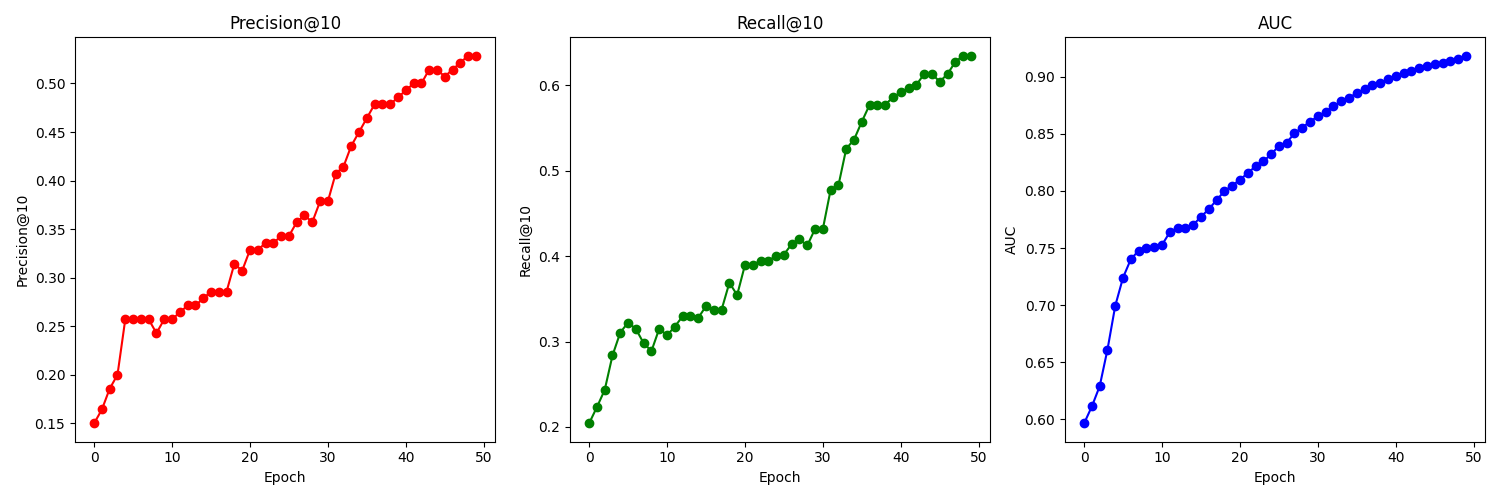
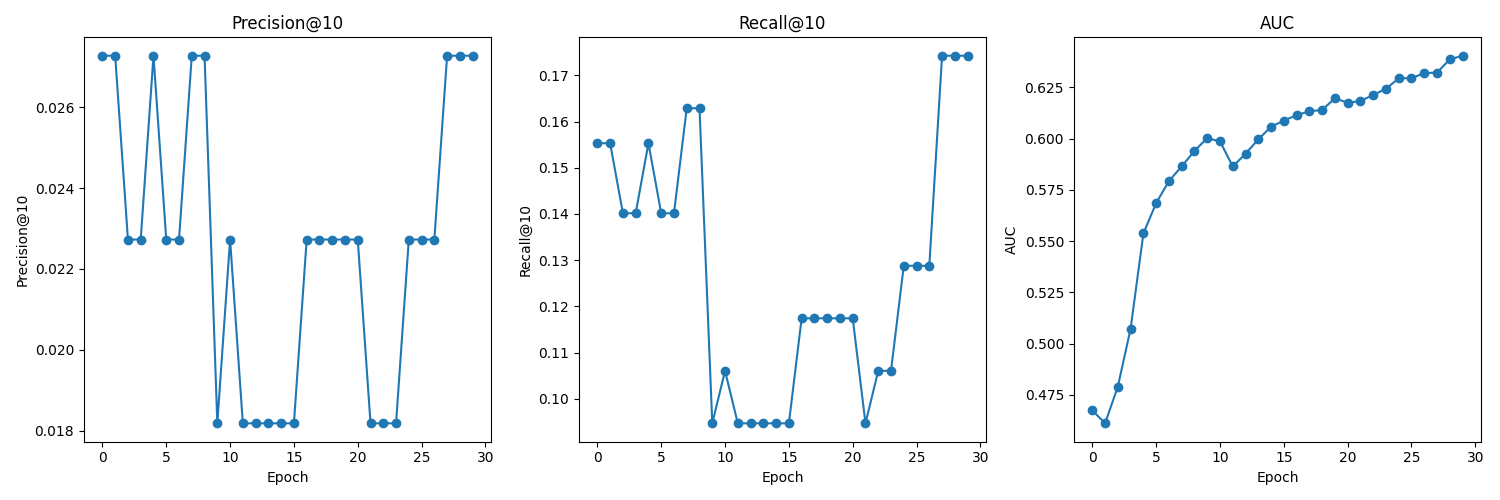
Enable matplotlib in requirements and update LightFM training parameters for improved model performance

diff --git a/recommendation/personalized/lightfm_process.py b/recommendation/personalized/lightfm_process.py
@@ -7,10 +7,11 @@ import pickle
 import logging
 import numpy as np
 import pandas as pd
-# import matplotlib.pyplot as plt
+import matplotlib.pyplot as plt
 from io import BytesIO
 from lightfm import LightFM
 from lightfm.data import Dataset
+from lightfm.cross_validation import random_train_test_split
 from lightfm.evaluation import precision_at_k, recall_at_k, auc_score
 from common.database import load_data
 
@@ -19,9 +20,9 @@ logger = logging.getLogger(__name__)
 logging.basicConfig(level=logging.INFO, format='%(asctime)s %(levelname)s %(message)s')
 
 # 하이퍼파라미터 및 설정
-EPOCHS = 50
+EPOCHS = 30
 NUM_THREADS = 1
-SAVE_CONDITION = {'precision': 0.5, 'recall': 0.6, 'auc': 0.9}
+SAVE_CONDITION = {'auc': 0.6}
 S3_BUCKET = 'lightfm-model'
 S3_PREFIX = 'lightfm_model'
 METRICS_PATH = 'personalized/output/lightfm_metrics_final.png'
@@ -43,7 +44,7 @@ def load_logs():
         SELECT user_id
         FROM "Mypage_userlog"
         GROUP BY user_id
-        HAVING COUNT(DISTINCT product_id) >= 5
+        HAVING COUNT(product_id) >= 3
         )
     """
     df = load_data(query)
@@ -75,16 +76,18 @@ def load_products():
 def prepare_dataset(df_logs, df_products):
     """
     유저 로그와 상품 정보를 바탕으로 LightFM 학습에 필요한 interaction matrix와 item feature matrix를 생성한다.
+    - 유저가 같은 상품에 여러 번 상호작용한 경우 행동별 가중치를 합산하여 반영한다.
 
     Args:
         df_logs (pd.DataFrame): user_id, product_id, action 컬럼을 가진 유저 로그 데이터
         df_products (pd.DataFrame): product_id, title, ingredients, brand, supplement_type, product_form, vegan 컬럼을 가진 상품 정보 데이터
 
     Returns:
-        tuple: (dataset, interaction_matrix, item_features)
+        tuple: (dataset, interaction_matrix, item_features, interactions)
             - dataset: LightFM Dataset 객체 (user/item 인덱스 매핑 정보 포함)
             - interaction_matrix: 상호작용 행렬 (user x item)
             - item_features: 아이템 feature 행렬
+            - interactions: (user_id, product_id, weight) 튜플 리스트
     """
     # 유저 행동별 가중치 설정
     action_weight = {
@@ -92,13 +95,11 @@ def prepare_dataset(df_logs, df_products):
         'purchase': 5.0,
     }
 
-    # 아이템 feature로 사용할 컬럼 지정
-    item_feature_fields = ['brand', 'supplement_type', 'product_form', 'vegan']
-
-    # 로그에 등장한 상품만 필터링
+    # (1) 상품 필터링 (로그에 등장한 상품만)
     used_product_ids = df_logs['product_id'].unique()
     df_products_used = df_products[df_products['product_id'].isin(used_product_ids)].copy()
 
+    # (2) 아이템 feature 추출용 ingredients 정제
     df_products_used['ingredients'] = df_products_used['ingredients'].apply(
         lambda x: ast.literal_eval(x) if isinstance(x, str) else x
     )
@@ -109,8 +110,8 @@ def prepare_dataset(df_logs, df_products):
         for ing in ingredients
         if 'ingredient_name' in ing
     }
-    
-    # 모든 아이템 feature 값 추출
+
+    item_feature_fields = ['brand', 'supplement_type', 'product_form', 'vegan']
     all_item_features = np.unique(
         np.concatenate([
             df_products_used[item_feature_fields].values.ravel(),
@@ -118,7 +119,7 @@ def prepare_dataset(df_logs, df_products):
         ])
     )
 
-    # LightFM Dataset 객체 생성 및 유저/아이템/아이템 feature fitting
+    # (3) Dataset fitting
     dataset = Dataset()
     dataset.fit(
         users=df_logs['user_id'].unique(),
@@ -126,27 +127,25 @@ def prepare_dataset(df_logs, df_products):
         item_features=all_item_features
     )
 
-    # (user, item, weight) 튜플 생성
-    interactions = [
-        (row.user_id, row.product_id, action_weight.get(row.action, 1.0))
-        for _, row in df_logs.iterrows()
-    ]
-    # 상호작용 행렬 생성
+    # (4) 행동 가중치 적용 및 집계
+    df_logs['weight'] = df_logs['action'].map(action_weight).fillna(0)
+    df_agg = df_logs.groupby(['user_id', 'product_id'])['weight'].sum().reset_index()
+
+    interactions = list(df_agg.itertuples(index=False, name=None))  # (user_id, product_id, weight)
     interaction_matrix, _ = dataset.build_interactions(interactions)
 
-    # 아이템 feature 튜플 생성
+    # (5) 아이템 feature 구성
     item_features_data = []
     for _, row in df_products_used.iterrows():
         features = [row[col] for col in item_feature_fields if pd.notna(row[col])]
         features += [ing['ingredient_name'] for ing in row['ingredients'] if 'ingredient_name' in ing]
         item_features_data.append((row['product_id'], features))
 
-    # 아이템 feature 행렬 생성
     item_features = dataset.build_item_features(item_features_data)
 
-    return dataset, interaction_matrix, item_features
+    return dataset, interaction_matrix, item_features, interactions
 
-def train_lightfm_model(interaction_matrix, item_features, epochs, num_threads, save_plot_path=None):
+def train_lightfm_model(train_interaction_matrix, test_interaction_matrix, item_features, epochs, num_threads, save_plot_path=None):
     """
     interaction matrix와 item feature matrix를 받아 LightFM 모델을 학습하는 함수
     - 각 epoch마다 precision@10, recall@10, auc@10을 평가한다.
@@ -175,10 +174,10 @@ def train_lightfm_model(interaction_matrix, item_features, epochs, num_threads, 
     precisions, recalls, aucs = [], [], []
 
     for epoch in range(epochs):
-        model.fit_partial(interaction_matrix, item_features=item_features, epochs=1, num_threads=num_threads)
-        precision = precision_at_k(model, interaction_matrix, item_features=item_features, k=10).mean()
-        recall = recall_at_k(model, interaction_matrix, item_features=item_features, k=10).mean()
-        auc = auc_score(model, interaction_matrix, item_features=item_features, num_threads=num_threads).mean()
+        model.fit_partial(train_interaction_matrix, item_features=item_features, epochs=1, num_threads=num_threads)
+        precision = precision_at_k(model, test_interaction_matrix, train_interaction_matrix, item_features=item_features, k=10).mean()
+        recall = recall_at_k(model, test_interaction_matrix, train_interaction_matrix, item_features=item_features, k=10).mean()
+        auc = auc_score(model, test_interaction_matrix, train_interaction_matrix, item_features=item_features, num_threads=num_threads).mean()
 
         precisions.append(precision)
         recalls.append(recall)
@@ -196,12 +195,19 @@ def train_lightfm_model(interaction_matrix, item_features, epochs, num_threads, 
     # if save_plot_path:
     #     os.makedirs(os.path.dirname(save_plot_path), exist_ok=True)
     #     plt.figure(figsize=(15, 5))
-    #     for i, (metric, values, color) in enumerate(zip(['Precision@10', 'Recall@10', 'AUC'], [precisions, recalls, aucs], ['r', 'g', 'b'])):
+
+    #     metrics = [
+    #         ("Precision@10", precisions),
+    #         ("Recall@10", recalls),
+    #         ("AUC", aucs),
+    #     ]
+
+    #     for i, (metric_name, values) in enumerate(metrics):
     #         plt.subplot(1, 3, i + 1)
-    #         plt.plot(values, marker='o', color=color)
-    #         plt.title(metric)
+    #         plt.plot(values, marker='o')
+    #         plt.title(metric_name)
     #         plt.xlabel('Epoch')
-    #         plt.ylabel(metric)
+    #         plt.ylabel(metric_name)
     #     plt.tight_layout()
     #     plt.savefig(save_plot_path)
     #     plt.close()
@@ -255,12 +261,16 @@ def main():
     logger.info(f"유저 수: {df_logs['user_id'].nunique()}, 상품 수: {df_logs['product_id'].nunique()}")
 
     logger.info("데이터 전처리 및 행렬 생성")
-    dataset, interaction_matrix, item_features = prepare_dataset(df_logs, df_products)
+    dataset, interaction_matrix, item_features, interactions = prepare_dataset(df_logs, df_products)
 
+    logger.info("학습 및 테스트 데이터 분할")
+    train_interaction_matrix, test_interaction_matrix = random_train_test_split(interaction_matrix, test_percentage=0.2, random_state=42)
+    
     logger.info("모델 학습 시작")
     start_time = time.time()
     model, precision, recall, auc = train_lightfm_model(
-        interaction_matrix,
+        train_interaction_matrix,
+        test_interaction_matrix,
         item_features,
         epochs=EPOCHS,
         num_threads=NUM_THREADS,
@@ -272,8 +282,9 @@ def main():
     logger.info("최종 평가 - Precision: %.4f, Recall: %.4f, AUC: %.4f", precision, recall, auc)
 
     # 모델 저장
-    if precision > SAVE_CONDITION['precision'] and recall > SAVE_CONDITION['recall']:
-        save_model_to_s3(model, dataset, item_features, bucket=S3_BUCKET, prefix=S3_PREFIX)
+    if auc > SAVE_CONDITION['auc']:
+        # save_model_to_s3(model, dataset, item_features, bucket=S3_BUCKET, prefix=S3_PREFIX)
+        pass
     else:
         logger.warning("저장 조건 미충족으로 모델 저장되지 않음")
 
